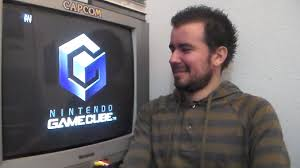
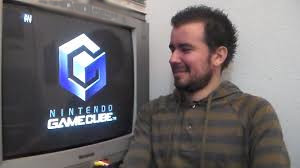
Versión 1.6
- Se corrigen imágenes que tenían pistas
- Se corrige una imagen que no se veía en producción

Changed region(s): [[0.09, 0.0, 0.45, 0.1786]]

diff --git a/scripts/quizData.js b/scripts/quizData.js
@@ -266,7 +266,7 @@ const quizData = [
         b: 'Emule',
         c: 'Photoshop',
         d: 'Buscaminas',
-        img: './pics/informatica.jpg',
+        img: './pics/clase-informatica.jpg',
         author: 'Alfon',
         correct: 'a'
     },
